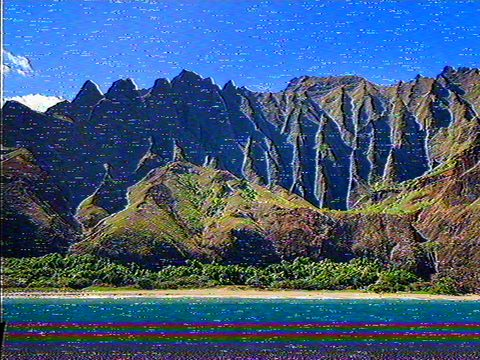
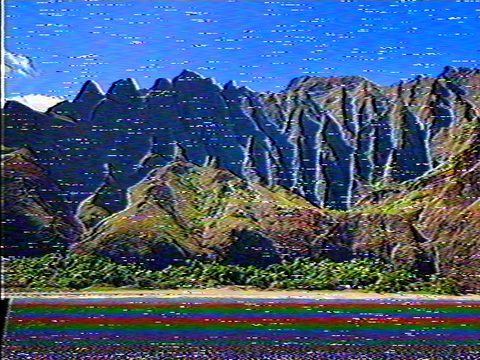
Make the aesthetics land as hard as their tiles promise
Three things stood between the gallery tile and the picture.

The backdrop was being buried. An empty placeholder slot renders as
opaque black across the whole canvas, so the treated ground the effect
is mostly made of was composited straight over and lost — leaving a flat
black frame with a small untreated picture on it. Scaffolding is now
marked as such and skipped when an aesthetic is on.

The picture only ever got a third of the effect: strength defaulted to
0.6 and the frame was treated at weight 0.55 on top of that. The whole
composited frame now goes through the signal path once, at the strength
you set, so 100% is precisely the tile. The backdrop is no longer
treated separately either — one tube for the whole frame, as a
television does it, and half the per-frame cost.

And ntsc-rs was free to reject a preset in silence: from_json_generic
failing fell through to the default effect, which would make every look
on the wheel identical with nothing on screen saying so. The bridge now
reports whether the JSON took, and the sheet says when it didn't.

Preview stills re-rendered at 640 lines, the width the app processes at,
so the tiles no longer show finer grain than playback can.

diff --git a/EasyEditor/Services/NtscRSProcessor.swift b/EasyEditor/Services/NtscRSProcessor.swift
@@ -21,6 +21,39 @@ final class NtscRSProcessor {
     private var handle: OpaquePointer?
     private var loadedPresetID: String?
 
+    /// What the last preset load and the last frame actually did. Read by the
+    /// aesthetics sheet: when ntsc-rs falls back, every preset renders the
+    /// same default look, and nothing on screen says so.
+    enum Status: Equatable {
+        case idle
+        case running(preset: String)
+        /// The JSON loaded but ntsc-rs wouldn't take it — the default effect
+        /// is running instead, so every preset looks alike.
+        case presetRejected(preset: String)
+        case missingPreset(String)
+        case unavailable
+
+        var blurb: String {
+            switch self {
+            case .idle: return "ntsc-rs idle"
+            case .running(let preset): return "ntsc-rs running \(preset)"
+            case .presetRejected(let preset):
+                return "ntsc-rs rejected \(preset) — showing its default look"
+            case .missingPreset(let preset): return "preset \(preset) missing from the bundle"
+            case .unavailable: return "ntsc-rs unavailable — falling back to the shader"
+            }
+        }
+
+        var isHealthy: Bool { if case .running = self { return true } else { return false } }
+    }
+
+    private var statusLock = NSLock()
+    private var _status: Status = .idle
+    private(set) var status: Status {
+        get { statusLock.lock(); defer { statusLock.unlock() }; return _status }
+        set { statusLock.lock(); _status = newValue; statusLock.unlock() }
+    }
+
     static let shared = NtscRSProcessor()
 
     private init() {}
@@ -38,16 +71,30 @@ final class NtscRSProcessor {
             self.handle = nil
         }
         var json: String?
-        if let presetID,
-           let url = Bundle.main.url(forResource: presetID, withExtension: "json") {
-            json = try? String(contentsOf: url, encoding: .utf8)
+        if let presetID {
+            if let url = Bundle.main.url(forResource: presetID, withExtension: "json") {
+                json = try? String(contentsOf: url, encoding: .utf8)
+            }
+            if json == nil {
+                Log.engine.error("ntsc-rs preset \(presetID) is not in the bundle")
+                status = .missingPreset(presetID)
+            }
         }
-        handle = json.map { text in text.withCString { ntsc_bridge_create($0) } }
-            ?? ntsc_bridge_create(nil)
+        var parsed = false
+        handle = json.map { text in
+            text.withCString { ntsc_bridge_create($0, &parsed) }
+        } ?? ntsc_bridge_create(nil, &parsed)
         loadedPresetID = presetID
         if handle == nil {
             Log.engine.error("ntsc-rs effect could not be created")
+            status = .unavailable
             return false
+        }
+        if let presetID, json != nil {
+            status = parsed ? .running(preset: presetID) : .presetRejected(preset: presetID)
+            if !parsed {
+                Log.engine.error("ntsc-rs would not take preset \(presetID); using its defaults")
+            }
         }
         return true
     }
@@ -58,7 +105,10 @@ final class NtscRSProcessor {
                  frame: Int) -> CIImage? {
         lock.lock()
         defer { lock.unlock() }
-        guard ensureEffect(presetID: presetID), let handle else { return nil }
+        guard ensureEffect(presetID: presetID), let handle else {
+            status = .unavailable
+            return nil
+        }
 
         let scale = min(1, Self.processingWidth / max(1, canvas.width))
         let width = Int((canvas.width * scale).rounded())
@@ -84,7 +134,10 @@ final class NtscRSProcessor {
             guard let base = buffer.baseAddress else { return false }
             return ntsc_bridge_process(handle, base, width, height, frame, artefactScale)
         }
-        guard ok else { return nil }
+        guard ok else {
+            status = .unavailable
+            return nil
+        }
 
         let data = Data(pixels)
         let processed = CIImage(bitmapData: data, bytesPerRow: rowBytes,

diff --git a/EasyEditor/Views/Sheets/AestheticsSheet.swift b/EasyEditor/Views/Sheets/AestheticsSheet.swift
@@ -6,6 +6,7 @@ import SwiftUI
 struct AestheticsSheet: View {
     @EnvironmentObject private var editor: EditorState
     @Environment(\.dismiss) private var dismiss
+    @State private var ntscStatus: NtscRSProcessor.Status = .idle
 
     private var settings: AestheticSettings {
         editor.project.aesthetic ?? AestheticSettings()
@@ -49,6 +50,7 @@ struct AestheticsSheet: View {
                     if settings.mode != .none {
                         strengthSection
                         causticsSection
+                        engineStatus
                     }
                 }
                 .padding(.horizontal, 16)
@@ -222,6 +224,43 @@ struct AestheticsSheet: View {
         }
         .padding(14)
         .background(.white.opacity(0.04), in: RoundedRectangle(cornerRadius: 14))
+    }
+
+    // MARK: Engine status
+
+    /// When ntsc-rs won't take a preset it quietly runs its own defaults, and
+    /// every look on the wheel comes out the same. That is worth saying out
+    /// loud rather than leaving you to wonder why nothing changes.
+    @ViewBuilder
+    private var engineStatus: some View {
+        let healthy = settings.mode != .ntsc || ntscStatus.isHealthy
+        HStack(spacing: 6) {
+            Image(systemName: healthy ? "checkmark.seal" : "exclamationmark.triangle.fill")
+            Text(statusLine).lineLimit(2)
+            Spacer(minLength: 0)
+        }
+        .font(.caption2)
+        .foregroundStyle(healthy ? Color.secondary : .orange)
+        .task {
+            while !Task.isCancelled {
+                ntscStatus = NtscRSProcessor.shared.status
+                try? await Task.sleep(nanoseconds: 700_000_000)
+            }
+        }
+    }
+
+    private var statusLine: String {
+        switch settings.mode {
+        case .none: return ""
+        case .crt, .vhs:
+            return AestheticKernel.shared.isAvailable
+                ? "Rendered on the GPU."
+                : "Shaders unavailable — showing a filter-chain stand-in."
+        case .ntsc:
+            return ntscStatus.isHealthy
+                ? "Rendered by ntsc-rs, from this preset."
+                : ntscStatus.blurb
+        }
     }
 
     private func label(_ text: String) -> some View {

diff --git a/EasyEditor/Services/AestheticRenderer.swift b/EasyEditor/Services/AestheticRenderer.swift
@@ -144,8 +144,12 @@ enum AestheticRenderer {
 
     // MARK: - Backdrop
 
-    /// The ground the picture sits on: a dark field with the mode's glow,
-    /// drifting snow, scanlines, and a slow smeared ghost of the picture.
+    /// The ground the picture sits on: a dark field with the mode's glow and a
+    /// slow smeared ghost of the picture.
+    ///
+    /// Untreated on purpose. The picture is composited onto this and the whole
+    /// frame goes through the tube once, which is both what a television
+    /// actually does and half the work of treating the two separately.
     static func backdrop(_ config: AestheticFrameConfig, canvas: CGRect,
                          time: Double, ghost: CIImage?) -> CIImage {
         let tint = config.mode.tint
@@ -188,8 +192,7 @@ enum AestheticRenderer {
             }
         }
 
-        // The backdrop wears the treatment at full weight.
-        return treat(image, config, canvas: canvas, time: time, weight: 1)
+        return image
     }
 
     // MARK: - Caustic spill
@@ -209,9 +212,8 @@ enum AestheticRenderer {
 
     // MARK: - The treatment itself
 
-    /// `weight` 1 = the backdrop's full dose; ~0.38 = the lighter pass the
-    /// picture gets, so the frame reads as doused without the footage
-    /// disappearing under it.
+    /// `weight` scales the configured strength; the compositor runs the whole
+    /// frame through at 1, so what plays back is what the gallery tile showed.
     static func treat(_ input: CIImage, _ config: AestheticFrameConfig,
                       canvas: CGRect, time: Double, weight: Double) -> CIImage {
         let p = config.params
@@ -237,7 +239,7 @@ enum AestheticRenderer {
             return tube.cropped(to: canvas)
         }
         // NTSC goes through the real ntsc-rs, driven by the preset itself.
-        if config.mode == .ntsc, weight > 0.5,
+        if config.mode == .ntsc,
            let processed = NtscRSProcessor.shared.process(image, canvas: canvas,
                                                           presetID: config.presetID,
                                                           frame: Int(time * 30)) {

diff --git a/EasyEditor/Services/LayeredCompositor.swift b/EasyEditor/Services/LayeredCompositor.swift
@@ -29,6 +29,10 @@ struct CompositorLayer {
     var zOrder: Int = 0
     /// Whether this layer's light spills into the backdrop.
     var castsCaustics: Bool = true
+    /// Black media that exists only so the timeline has a surface to play —
+    /// an empty placeholder slot, or the filler under a stills-only project.
+    /// It is scaffolding, not picture.
+    var isScaffold = false
 
     // Connected-clip motion (zero clipEnd = no motion evaluation).
     var clipStart: Double = 0
@@ -144,6 +148,10 @@ final class LayeredCompositor: NSObject, AVVideoCompositing {
         let progress = min(1, max(0, elapsed / total))
 
         for layer in instruction.layers {
+            // Scaffolding is opaque black across the whole canvas, so drawing
+            // it would bury the treated backdrop under exactly the black the
+            // backdrop replaces.
+            if layer.isScaffold, instruction.aesthetic != nil { continue }
             guard let buffer = request.sourceFrame(byTrackID: layer.trackID) else { continue }
             var image = CIImage(cvPixelBuffer: buffer)
 
@@ -388,10 +396,11 @@ final class LayeredCompositor: NSObject, AVVideoCompositing {
                                     blend: item.blend, canvas: canvas)
         }
 
-        // The picture takes a lighter dose than the ground it sits on.
+        // The whole frame wears the treatment at the strength that was asked
+        // for — at 100% that is precisely the look on the gallery tile.
         if let aesthetic = instruction.aesthetic {
             result = AestheticRenderer.treat(result, aesthetic, canvas: canvas,
-                                             time: time, weight: 0.55)
+                                             time: time, weight: 1)
         }
 
         ciContext.render(result, to: output, bounds: canvas,

diff --git a/EasyEditor/Services/CompositionEngine.swift b/EasyEditor/Services/CompositionEngine.swift
@@ -516,7 +516,9 @@ struct CompositionEngine {
             // Every instruction needs at least one source, or AVFoundation has
             // no reason to call the compositor for that interval.
             if layers.isEmpty, let fillerTrackID {
-                layers.append(CompositorLayer(trackID: fillerTrackID))
+                var filler = CompositorLayer(trackID: fillerTrackID)
+                filler.isScaffold = true
+                layers.append(filler)
             }
 
             let range = CMTimeRange(
@@ -554,6 +556,7 @@ struct CompositionEngine {
                                     blend: clip.blend)
         layer.startOpacity = clip.effectiveOpacity
         layer.endOpacity = clip.effectiveOpacity
+        layer.isScaffold = clip.isPlaceholder == true
         guard role != .solo, regionEnd > regionStart else { return layer }
 
         // Normalized transition progress at this instruction's endpoints.

diff --git a/EasyEditor/Models/Models.swift b/EasyEditor/Models/Models.swift
@@ -327,8 +327,9 @@ struct AestheticSettings: Codable, Equatable {
     var mode: AestheticMode = .none
     /// Bundled ntsc-rs preset slug driving the parameters.
     var presetID: String?
-    /// 0…1, scales everything.
-    var strength: Double = 0.6
+    /// 0…1, scales everything. At 1 the frame wears exactly the look shown on
+    /// the gallery tile.
+    var strength: Double = 0.85
     /// How much the picture spills light into the backdrop.
     var caustics: Double = 0.5
     /// Camera takes usually shouldn't smear the room with their own glow.

diff --git a/rust/ntscbridge/src/lib.rs b/rust/ntscbridge/src/lib.rs
@@ -24,18 +24,32 @@ pub struct Bridge {
 /// if the JSON can't be parsed, so a bad file costs fidelity rather than the
 /// feature. Returns null only if the effect itself couldn't be constructed.
 ///
+/// `parsed_out`, if given, is set to whether the JSON actually took. Without
+/// it a preset that fails to parse is indistinguishable from one that works:
+/// every look silently becomes the default, which is exactly the failure that
+/// is hardest to notice and worst to ship.
+///
 /// # Safety
-/// `json` must be a valid NUL-terminated C string, or null for defaults.
+/// `json` must be a valid NUL-terminated C string, or null for defaults;
+/// `parsed_out` must be null or point to a writable bool.
 #[no_mangle]
-pub unsafe extern "C" fn ntsc_bridge_create(json: *const c_char) -> *mut Bridge {
+pub unsafe extern "C" fn ntsc_bridge_create(
+    json: *const c_char,
+    parsed_out: *mut bool,
+) -> *mut Bridge {
+    let mut parsed = false;
     let result = catch_unwind(AssertUnwindSafe(|| {
         let effect = if json.is_null() {
             NtscEffect::default()
         } else {
             match CStr::from_ptr(json).to_str() {
-                Ok(text) => SettingsList::<NtscEffect>::new()
-                    .from_json_generic(text)
-                    .unwrap_or_default(),
+                Ok(text) => match SettingsList::<NtscEffect>::new().from_json_generic(text) {
+                    Ok(effect) => {
+                        parsed = true;
+                        effect
+                    }
+                    Err(_) => NtscEffect::default(),
+                },
                 Err(_) => NtscEffect::default(),
             }
         };
@@ -44,6 +58,9 @@ pub unsafe extern "C" fn ntsc_bridge_create(json: *const c_char) -> *mut Bridge 
             ctx: Context::new(),
         }))
     }));
+    if !parsed_out.is_null() {
+        *parsed_out = parsed;
+    }
     result.unwrap_or(ptr::null_mut())
 }
 

diff --git a/EasyEditor/NtscBridge.h b/EasyEditor/NtscBridge.h
@@ -8,7 +8,10 @@
 typedef struct Bridge NtscBridge;
 
 /// Build an effect from ntsc-rs preset JSON (pass NULL for the defaults).
-NtscBridge *ntsc_bridge_create(const char *json);
+/// `parsed_out` may be NULL; otherwise it reports whether the JSON took, so a
+/// preset that silently fell back to the defaults can be told apart from one
+/// that worked.
+NtscBridge *ntsc_bridge_create(const char *json, bool *parsed_out);
 
 /// Apply the effect in place to a packed RGBA8 buffer.
 bool ntsc_bridge_process(NtscBridge *handle, unsigned char *pixels,
